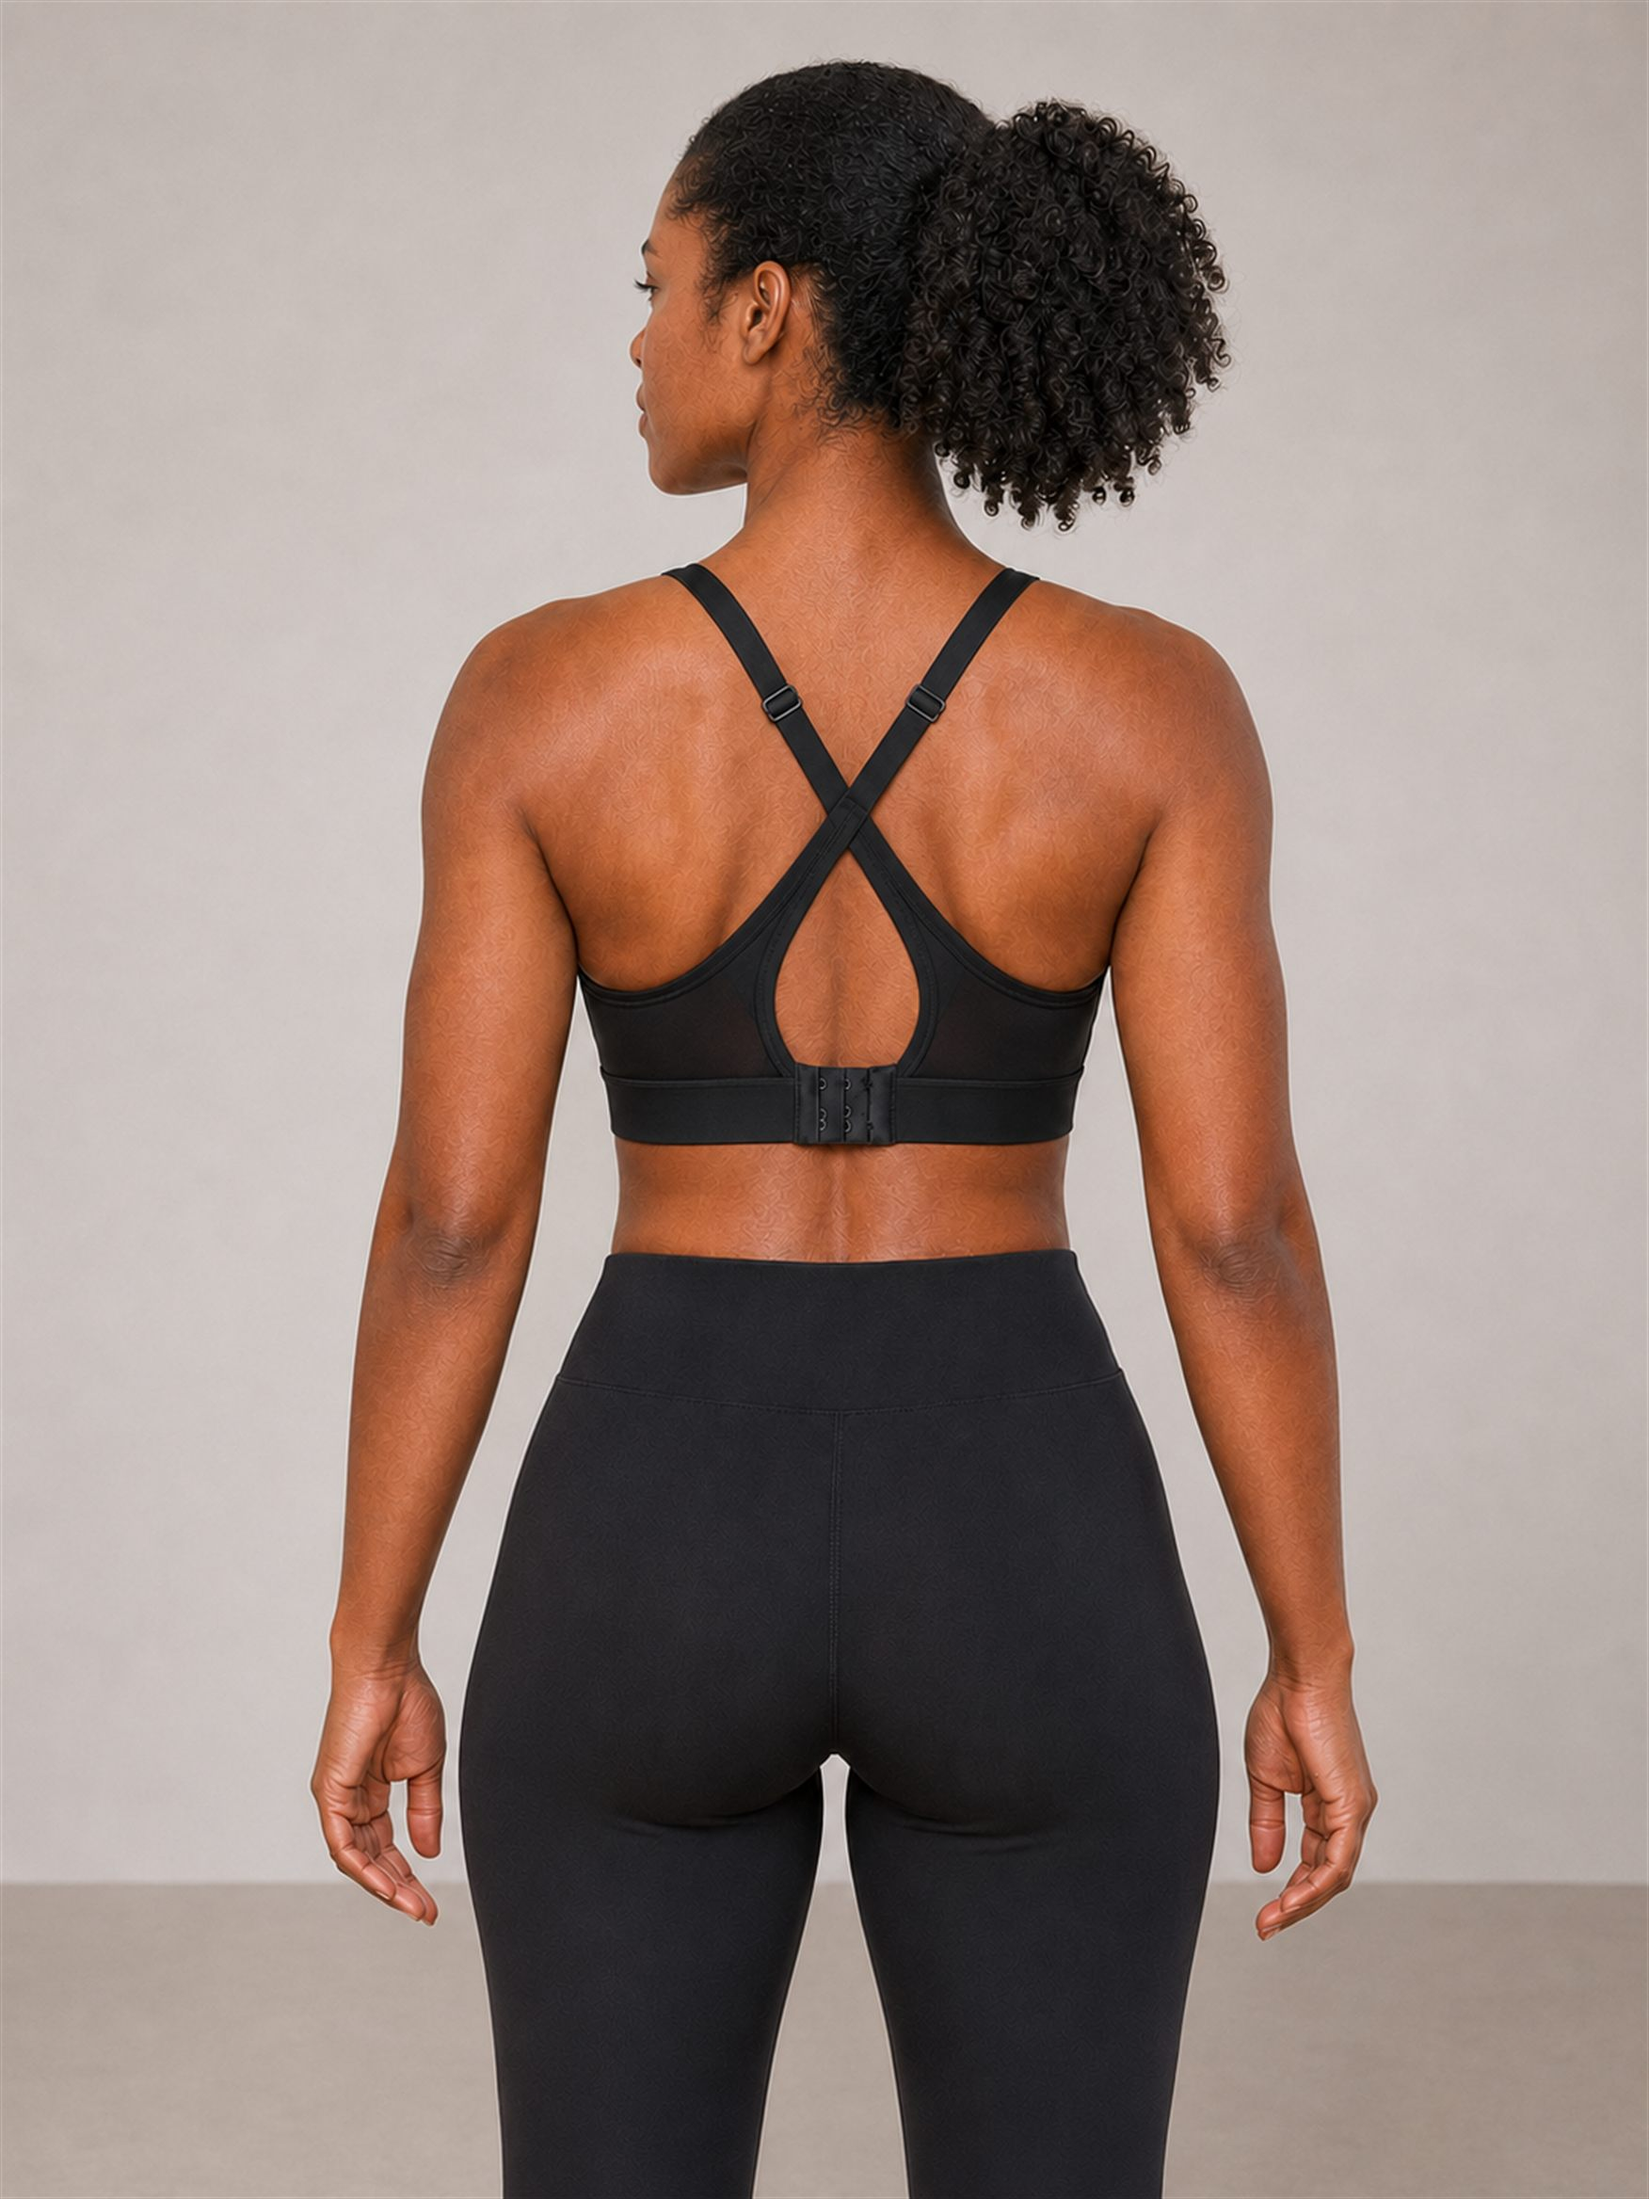
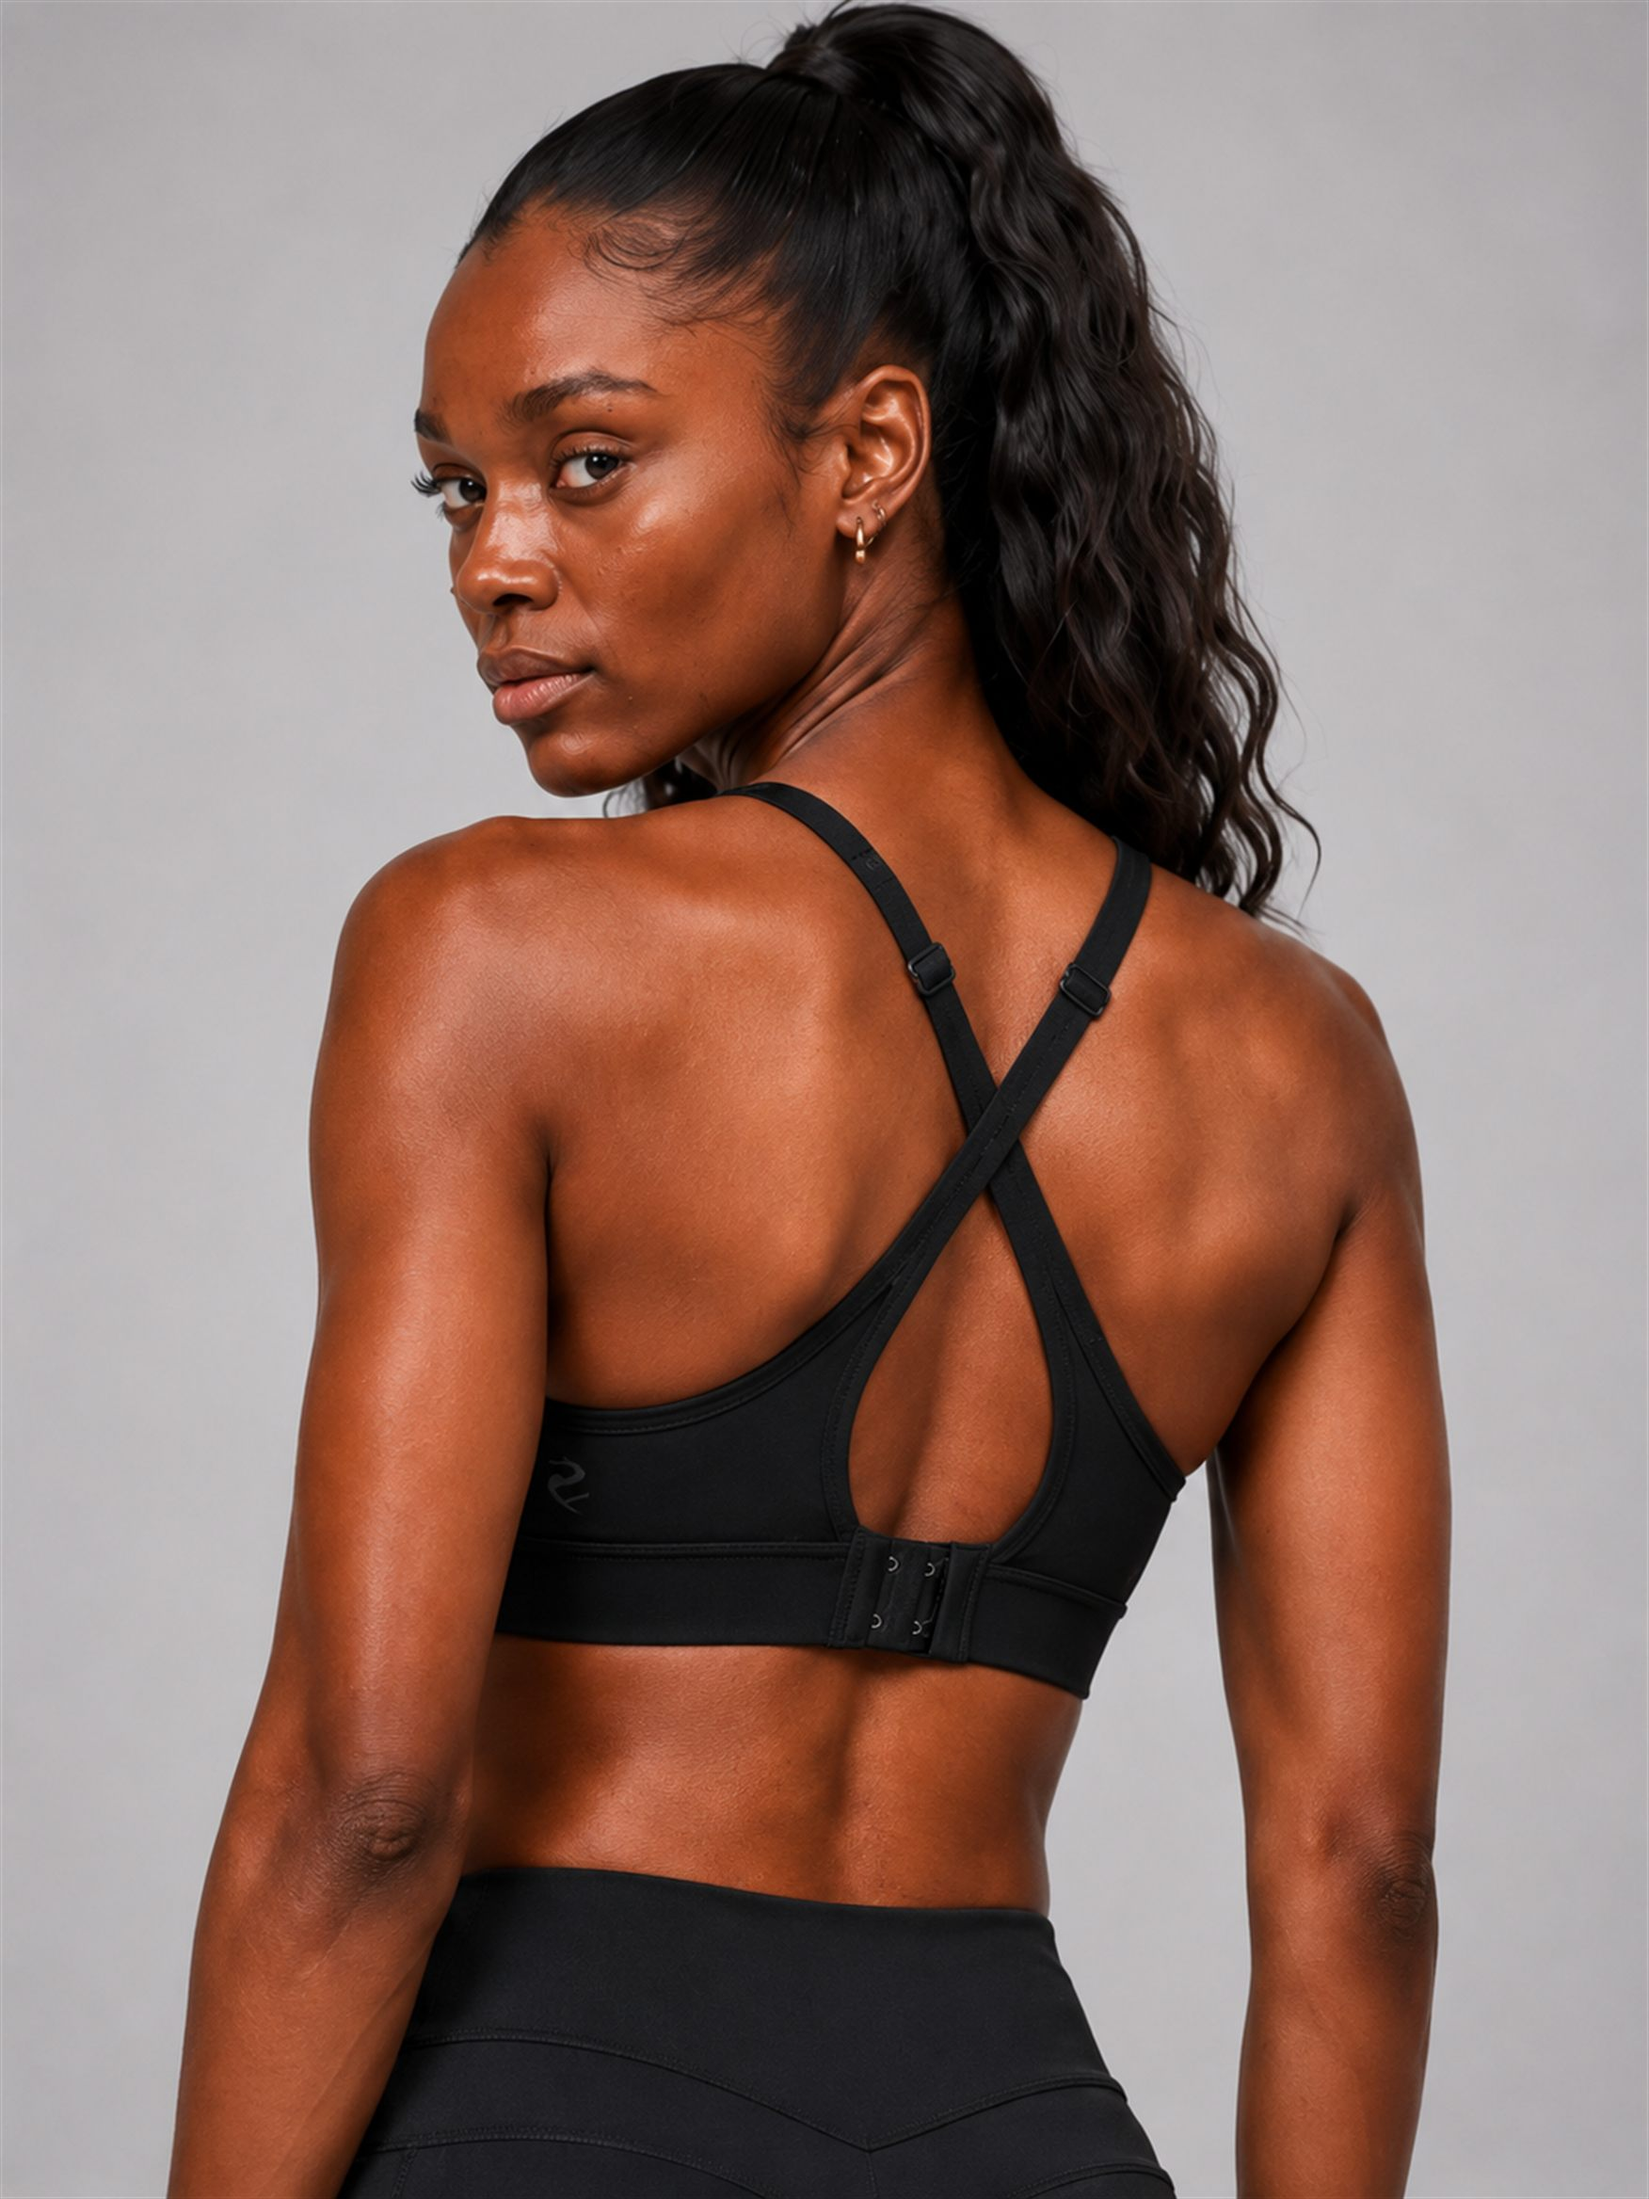
Update High Impact Bra with new final photos (adds front-angle, 4 views)

diff --git a/product.html b/product.html
@@ -314,7 +314,7 @@
 const PRODUCTS={
   'running-leggings-w':{name:'Performance Leggings',gender:"Women's",price:'KES 5,500',priceVal:5500,image:'images/running-leggings-w.jpg',sizes:['S','M','L','XL','XXL'],desc:"Engineered for road and trail. A contoured waistband defines the line without compressing. A pattern-cut panel lifts the silhouette at the top of the glute, while graduated compression holds the line without flattening shape. Four-way stretch fabric. Flatlock seams.",details:['Contoured waistband — defines without compressing','Pattern-cut lift at the top of the glute','Graduated compression through thigh and core','Four-way stretch performance fabric','Flatlock seam construction',]},
   'flared-leggings-w':{name:'Flared Leggings',gender:"Women's",price:'KES 5,600',priceVal:5600,image:'images/flared-leggings-w.jpg',images:['images/flared-leggings-w.jpg','images/flared-leggings-w-back.jpg'],sizes:['S','M','L','XL','XXL'],tallSizes:['S (Tall)','M (Tall)','L (Tall)','XL (Tall)','XXL (Tall)'],desc:"Studio-ready with a relaxed straight-leg silhouette — loose from the waistband down through the leg. A high-rise contoured waistband defines the waistline and stays put through full range of motion. A pattern-cut panel lifts the silhouette at the top of the glute, while graduated compression holds the line without flattening shape. Buttery-soft four-way stretch fabric. Suited to yoga, pilates, barre and everyday wear. Also available in Tall lengths.",details:['High-rise contoured waistband — defines without compressing','Pattern-cut lift at the top of the glute','Graduated compression through thigh and core','Buttery-soft four-way stretch fabric','Relaxed straight-leg cut — loose from the waistband through the leg','Regular (34" inseam) — up to 5\'8" / 173cm · Tall (37" inseam) — 5\'9" / 175cm and above',]},
-  'high-impact-bra':{name:'High Impact Sports Bra',gender:"Women's",price:'KES 4,950',priceVal:4950,image:'images/high-impact-bra.jpg',images:['images/high-impact-bra.jpg','images/high-impact-bra-side.jpg','images/high-impact-bra-back.jpg'],sizes:['S','M','L','XL','XXL'],desc:"Maximum support for running, HIIT, and high-intensity training. Wide underband and reinforced straps keep everything locked in place. Moisture-wicking inner lining and removable padding.",details:['Maximum support rating','Wide reinforced underband','Adjustable back strap','Removable moulded padding','Moisture-wicking inner lining',]},
+  'high-impact-bra':{name:'High Impact Sports Bra',gender:"Women's",price:'KES 4,950',priceVal:4950,image:'images/high-impact-bra.jpg',images:['images/high-impact-bra.jpg','images/high-impact-bra-front-angle.jpg','images/high-impact-bra-side.jpg','images/high-impact-bra-back.jpg'],sizes:['S','M','L','XL','XXL'],desc:"Maximum support for running, HIIT, and high-intensity training. Wide underband and reinforced straps keep everything locked in place. Moisture-wicking inner lining and removable padding.",details:['Maximum support rating','Wide reinforced underband','Adjustable back strap','Removable moulded padding','Moisture-wicking inner lining',]},
   'low-impact-bra':{name:'Low Impact Sports Bra',gender:"Women's",price:'KES 4,950',priceVal:4950,image:'images/low-impact-bra.jpg',images:['images/low-impact-bra.jpg','images/low-impact-bra-side.jpg','images/low-impact-bra-back.jpg'],sizes:['S','M','L','XL','XXL'],desc:"Lightweight and breathable for yoga, pilates, stretching, and low-intensity sessions. Scoop neck with a clean racerback silhouette. Removable padding, soft-touch fabric.",details:['Light support rating','Racerback silhouette','Scoop neckline','Removable padding','Soft-touch four-way stretch fabric',]},
   'jacket-w':{name:"Women's Jacket",gender:"Women's",price:'KES 7,500',priceVal:7500,image:'images/jacket-w.jpg',images:['images/jacket-w.jpg','images/jacket-w-front-angle.jpg','images/jacket-w-back-angle.jpg','images/jacket-w-back.jpg'],sizes:['S','M','L','XL','XXL'],desc:"A versatile training jacket built for warm-ups, cool-downs, and everything in between. Lightweight with a clean zip-front silhouette. Thumb holes, two side pockets, and a slightly relaxed fit.",details:['Full-length zip front','Thumb hole cuffs','Two side zip pockets','Relaxed training fit','Lightweight performance fabric',]},
   'tshirt-w':{name:"Women's T-Shirt",gender:"Women's",price:'KES 4,500',priceVal:4500,image:'images/tshirt-w.jpg',sizes:['S','M','L','XL','XXL'],desc:"A clean training tee built for movement. Lightweight moisture-wicking fabric, a relaxed fit that stays in place, and a slightly cropped hem. Wear it to the gym, on a run, or straight after.",details:['Moisture-wicking fabric','Relaxed fit with cropped hem','Crew neck','Flatlock shoulder seams',]},
